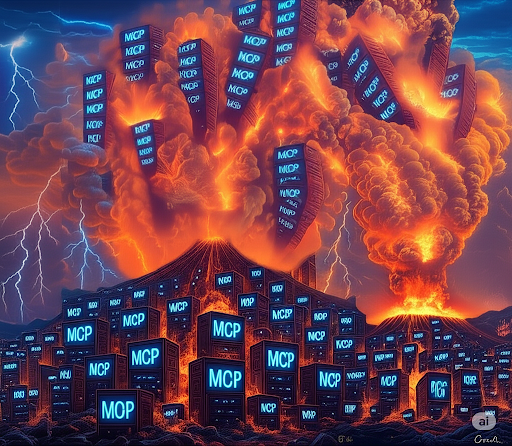
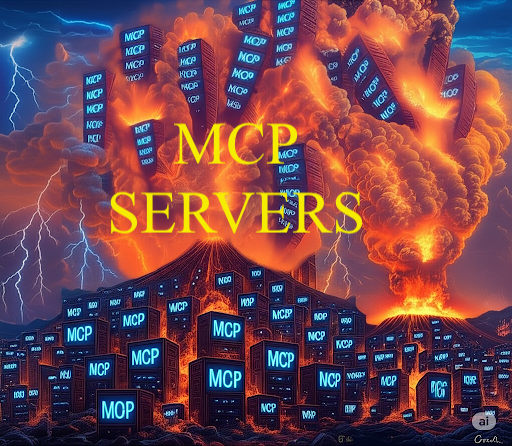
update quickstart instructions

Changed region(s): [[0.2188, 0.4081, 0.7188, 0.5247], [0.3438, 0.2623, 0.5938, 0.3789]]

diff --git a/quickstart_demo.md b/quickstart_demo.md
@@ -1,5 +1,5 @@
 # QuickStart Demo
-
+Video tutorial: [https://youtu.be/W4EAmaTTb2A](https://youtu.be/W4EAmaTTb2A)
 ### Here, we show a demo of how to use the MCP server with Cursor or Claude to analyze websites. 
 
 ### 0. Setup 1MCPServer
@@ -33,6 +33,8 @@ Now restart you cursor/claude.
 
 # Detailed YouTube Video Walkthrough: 
 Title: Building ANYTHING you want with vibe coding + MCP servers in 5 minutes (pure beginners)
+
+Let's learn to use MCP servers to do anything you want with LLMs in 5 minutes. 
 ## What is MCP? 
 Something we can use that makes the LLMs really powerful. 
 
@@ -74,12 +76,12 @@ The next step to do is to spin up cursor to add our first MCP server. In this ex
 Now we can see there are 2 MCPs being added. Toggle them. If you see green, great! If you see anything else, lmk in the comments and I'll try to help. 
 
 ## Finding and adding MCP servers
-I want to perform analysis of websites. tech stack, web data
+Now in this demo, we are going to show how we can make LLMs an expertise in web analysis. Let's tell cursor to do so. To achieve so, we let the LLMs find and add more MCP servers itself. But this time, the LLM does all the searching and configurations instead of us. 
 
 I want to perform analysis of website. I want to be able to analyze the tech stack the website uses, and extract web data. Call the deep_search tool.
 
 - we see it starts planning
-- start finding a bunch of relevant MCP servers
+- start finding a bunch of relevant MCP servers. (GPT5 likes to do a lot of searches)
 - selects the most relevant and fetches their README for setup instructions
 - start configuring the MCP servers
     - let's go grab the API keys

diff --git a/README.md b/README.md
@@ -7,7 +7,7 @@ No need to run setup commands, no need to acquire api keys. Just need to modify 
 
 
 
-### Demo video: https://youtu.be/Kv2HgD9hRZ8 
+### Demo video: https://youtu.be/W4EAmaTTb2A 
 # Set up Instruction
 
 ### Simple remote setup: integration with Cursor and Claude (Option 1) 
